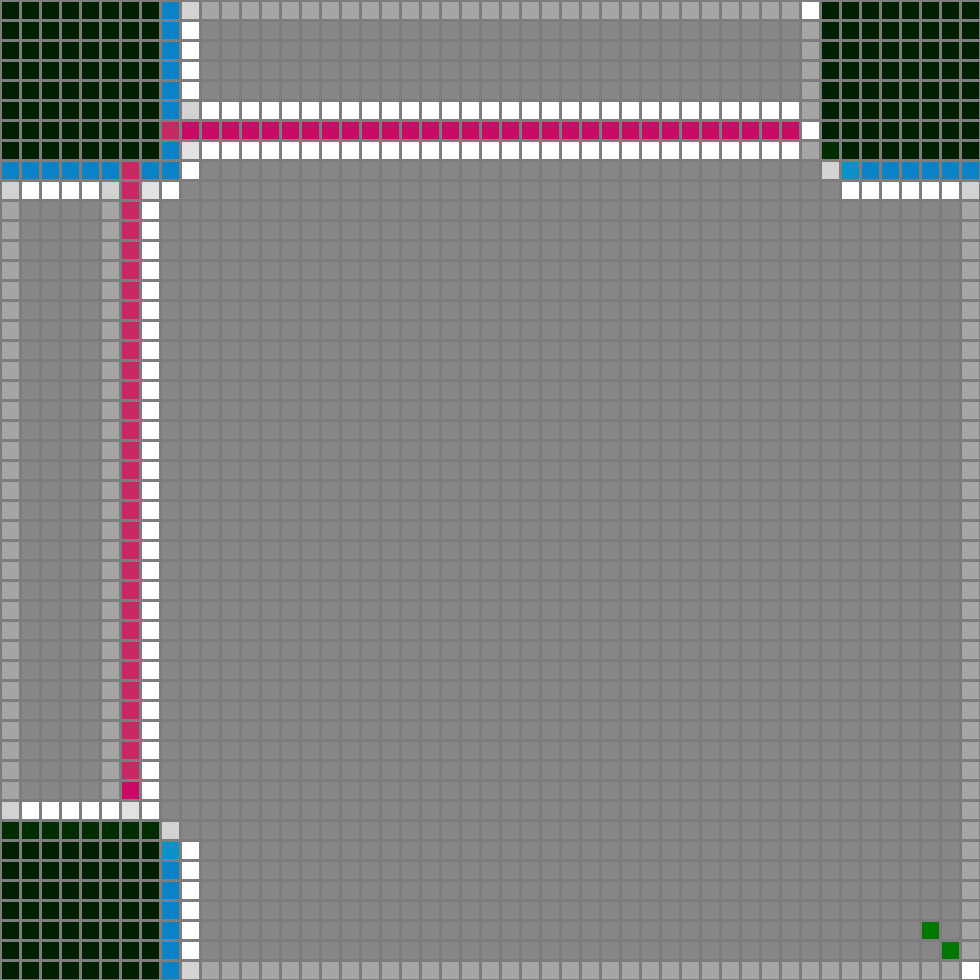
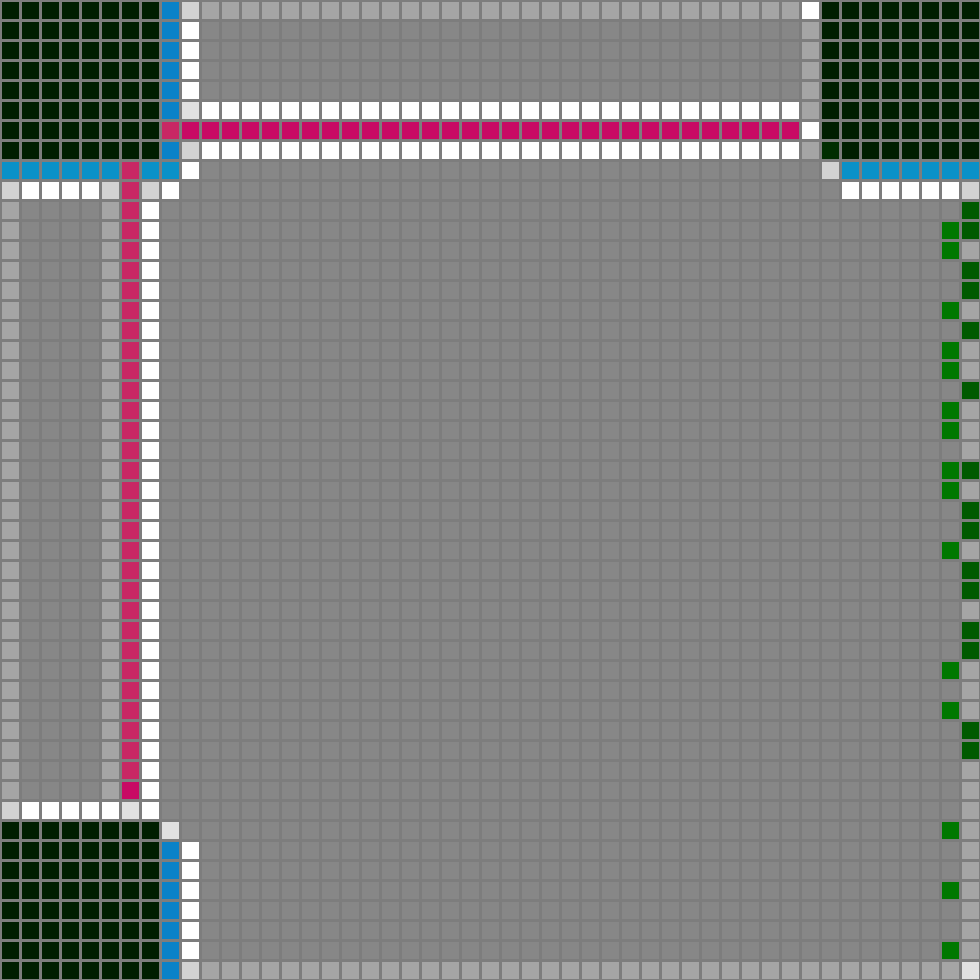
going the right direction this time

diff --git a/src/main.rs b/src/main.rs
@@ -72,6 +72,31 @@ fn find_next_point(grid: &Grid, point: &Point) -> Point {
     Point { x: 1, y: 1 }
 }
 
+    /*
+    Keep changing my mind....
+
+
+    ok....
+
+    so....
+
+    Priority should always be to check rightmost first.
+
+    O - O - O
+    |   |   |
+    O -[0]- 0
+    |   |   |
+    O - 0 - 0
+
+    if the above is true, and the bits are being aligned upward,
+    then I know that -1, +1 is the next point to fill. But how is that detrmined?
+
+    if the rightmost cell is filled...
+        1. check the cell above and below the one to the right...
+        2. if top-right is empty, and bottom-right is not, then that may hint
+           what the alignment is - in this case going bottom to top.
+
+    */
 
 fn main() {
     let qr_version = 1;
@@ -83,26 +108,19 @@ fn main() {
     for i in 0..(size - 1) {
         qr.update_cell_paths(Point { x: i / 49, y: i % 49 });
     }
+    let mut pt = Point { x: starting_point / 49, y: starting_point % 49 };
     for byte in message.into_bytes() {
-        let mut pt = Point { x: starting_point / 49, y: starting_point % 49 };
         for i in 1..7 {
-            println!("x={x}, y={y}", x=pt.x, y=pt.y);
             let xbit = byte & (1 << i);
-            qr.encode_bit(xbit == 0, pt);
-            qr.update_cell_paths(pt);
-            find_next_point(&qr, &pt);
-            if pt.x == pt.y {
-                pt = (pt << 1).unwrap();
-            } else if pt.x > pt.y {
-                pt = (pt + 1).unwrap();
-            } else {
-                pt = (pt >> 1).unwrap();
+            let next_point = qr.get_next_valid_point(&pt);
+            match next_point {
+                Some(p) => {
+                    println!("x={x}, y={y}, NEXT", x=pt.x, y=pt.y);
+                    qr.encode_bit(xbit == 0, p);
+                    pt = p;
+                },
+                None => println!("NOTHING")
             }
-            match pt + 1 {
-                Some(p) => pt = p,
-                None => {}
-            }
-            // encode_byte(byte, &mut qr, &mut starting_point, i);
         }
     }
     let size = 49;

diff --git a/src/grid/grid.rs b/src/grid/grid.rs
@@ -13,6 +13,14 @@ pub enum QRSection {
     MetaData
 }
 
+pub enum Direction {
+    Top(Point),
+    Bottom(Point),
+    Left(Point),
+    Right(Point),
+    None
+}
+
 pub struct Row {
     pub cells: Vec<Cell>
 }
@@ -20,6 +28,7 @@ pub struct Row {
 pub struct Grid {
     pub rows: Vec<Row>
 }
+
 
 impl<'a> Grid {
     pub fn update_cell_paths(&mut self, point: Point) {
@@ -88,7 +97,37 @@ impl<'a> Grid {
         }
     }
 
+    fn fetch_cell(&self, pt: Option<Point>) -> Option<Point> {
+        // if point is out of bounds, it will return None.
+        if pt.is_none() {
+            panic!("This should not trigger");
+        }
+        // otherwise, the point is valid, but the cell itself may not be a valid _choice_
+        let point = pt.unwrap();
+        match self.rows.get(point.x).unwrap().cells.get(point.y) {
+            Some(cell) => {
+                if cell.is_free() {
+                    Some(Point { x: cell.x, y: cell.y })
+                } else {
+                    None
+                }
+            },
+            None => None
+        }
+    }
+
     // PUBLIC
+
+    pub fn get_next_valid_point(&self, current_point: &Point) -> Option<Point> {
+        let mut done = false;
+        let mut next_point = *current_point >> 1;
+        if next_point.is_none() {
+            // rightmost edge. Alignment is to grow upwards.
+            return Some((*current_point << 1).unwrap())
+        }
+
+        next_point.unwrap() - 1
+    }
 
     pub fn encode_bit(&mut self, is_bit: bool, point: Point) {
         let mut cell = self.get_mut_cell(&point).unwrap();

diff --git a/src/grid/traverse.rs b/src/grid/traverse.rs
@@ -36,8 +36,8 @@ impl Add<usize> for Point {
 
     fn add(self, rhs: usize) -> Option<Point> {
         match self.x {
-             0 => None,
-             _ => Some(Point { x: self.x - rhs, y: self.y })
+             48 => None,
+             _  => Some(Point { x: self.x + rhs, y: self.y })
         }
     }
 }
@@ -47,8 +47,8 @@ impl Sub<usize> for Point {
 
     fn sub(self, rhs: usize) -> Option<Point> {
         match self.x {
-            48 => None,
-             _ => Some(Point { x: self.x + rhs, y: self.y })
+            0 => None,
+            _ => Some(Point { x: self.x - rhs, y: self.y })
         }
     }
 }

diff --git a/src/grid/cell.rs b/src/grid/cell.rs
@@ -1,4 +1,5 @@
 use grid::util::*;
+use grid::traverse::Point;
 
 pub struct Cell {
     pub is_fixed: bool,
@@ -29,5 +30,9 @@ impl Cell {
 
     pub fn is_free(&self) -> bool {
         !self.is_fixed && self.is_empty && !self.is_format && !self.is_bridge
+    }
+
+    pub fn as_point(&self) -> Point {
+        Point { x: self.x, y: self.y }
     }
 }
